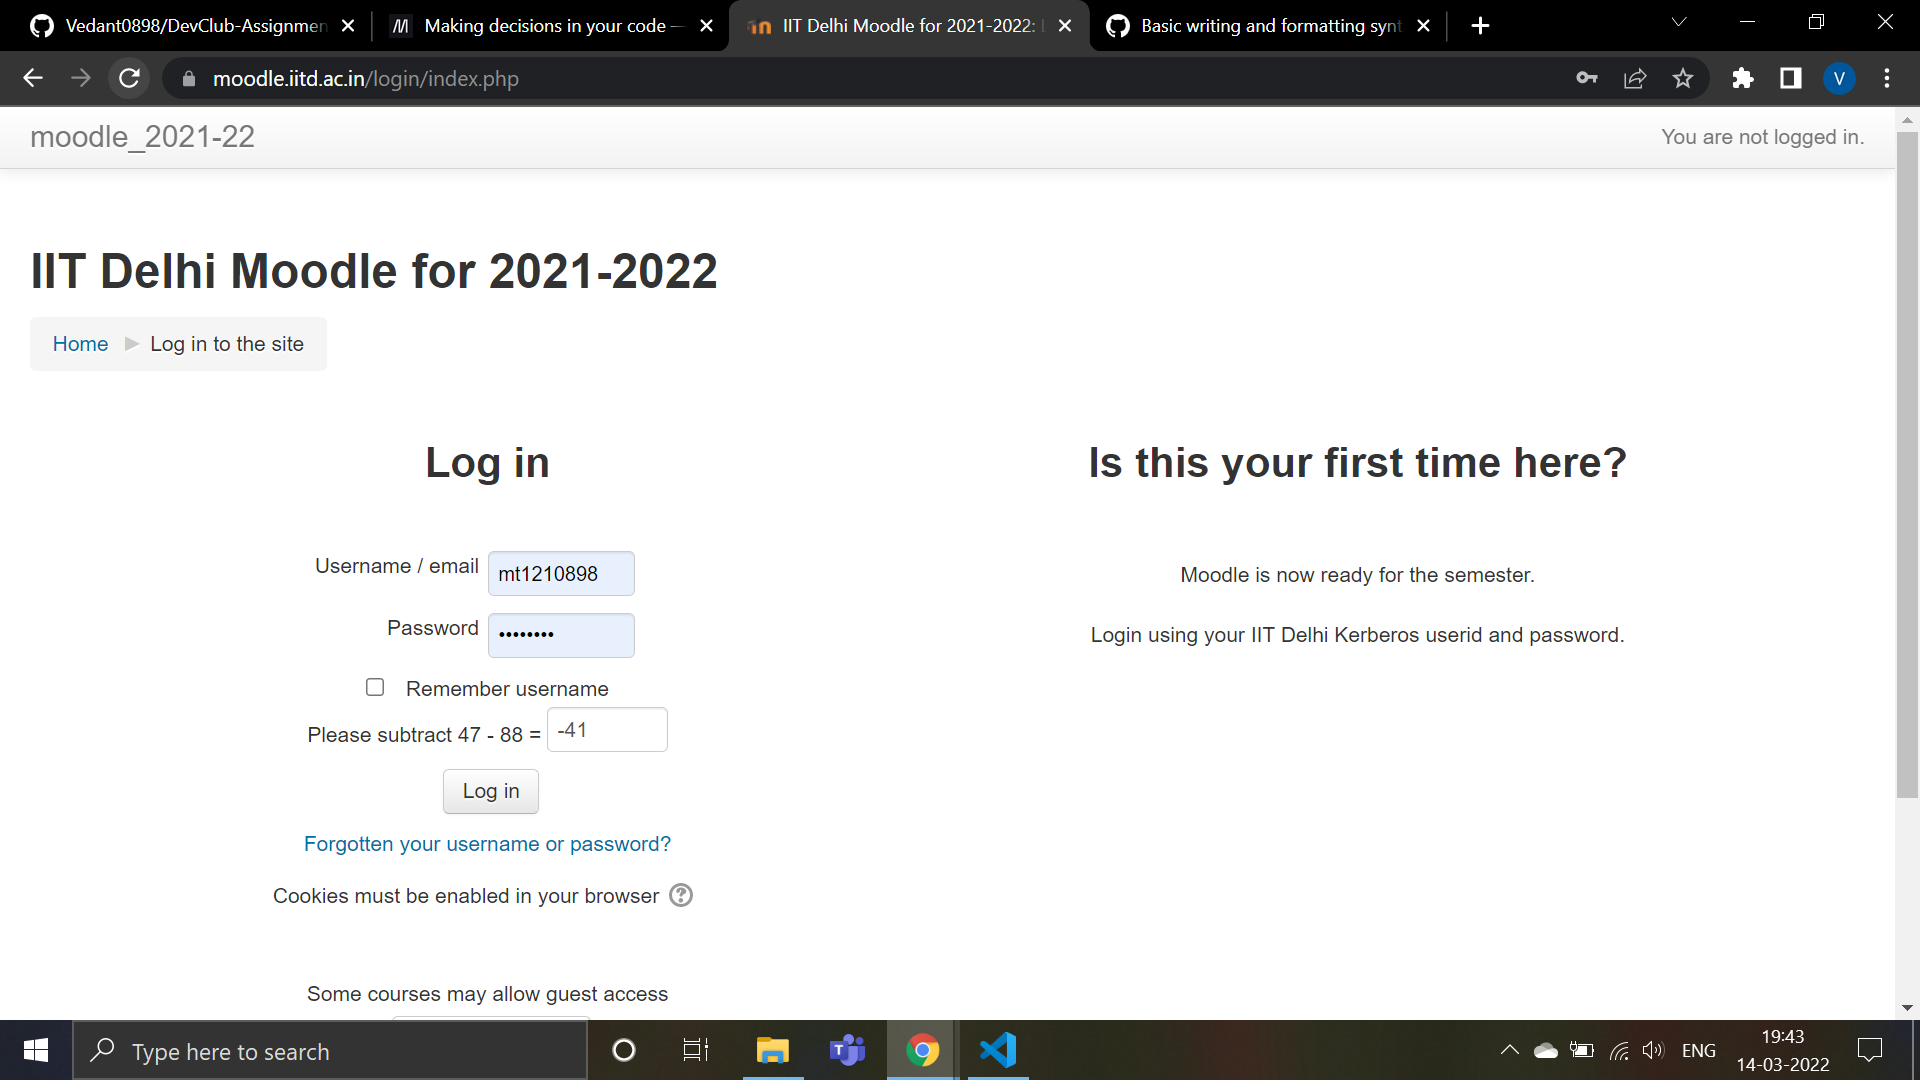
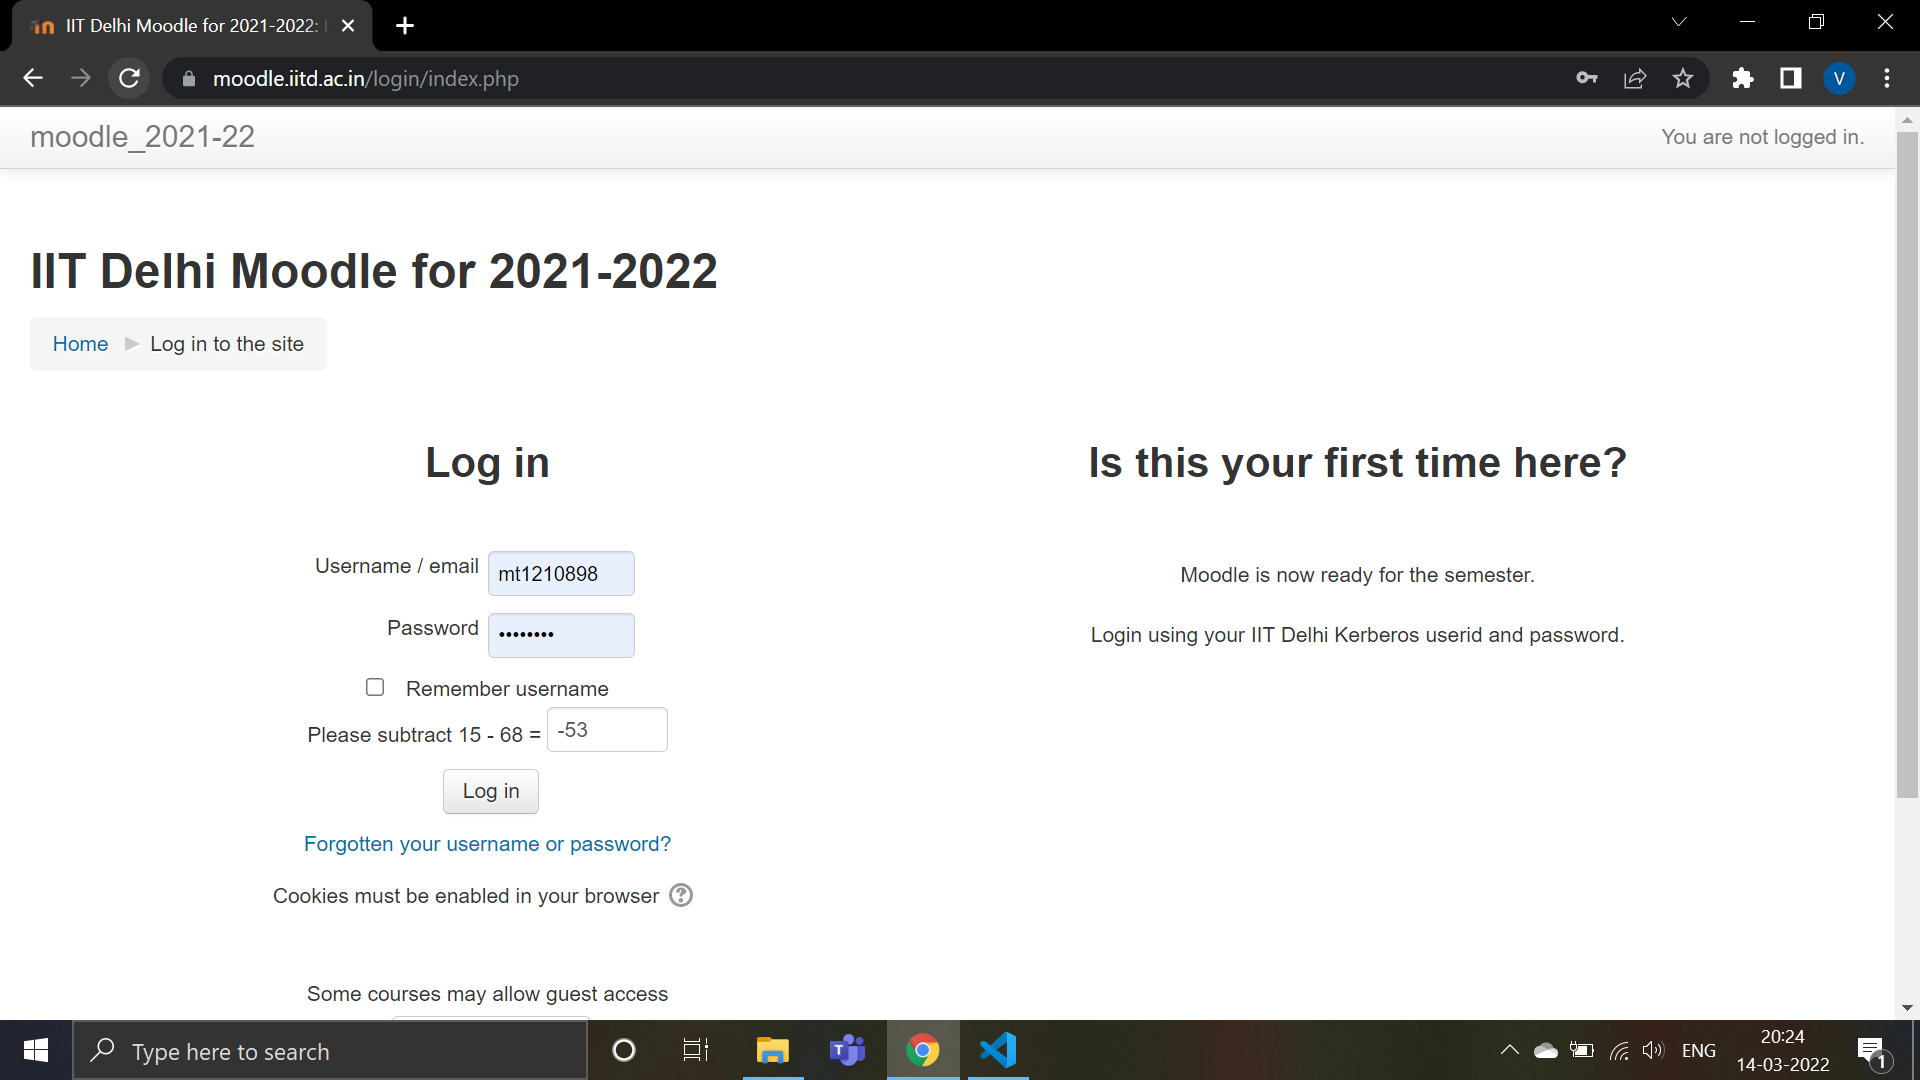
Updated README with screenshots

diff --git a/Moodle+/README.md b/Moodle+/README.md
@@ -19,3 +19,7 @@ Now, build a chrome extension which will solve this question automatically!
 * Try to make the code submit the login form too! (You may have to store the credentials for this (Make sure to remove them before pushing your code to GitHub))
 * Make a separate file `style.js`, and add it to `content_scripts` in `manifest.json` such that it loads each time you open any moodle page. (You may have to use wildcards for this)
 * Using DOM selector you can change the style of the elements. So now, try to redesign moodle according to your own creativity! For instance, try making a dark-mode for moodle!
+
+## Screenshot
+![Screenshot-1](./Images/SS_1.png)
+![Screenshot-2](./Images/SS_2.png)
